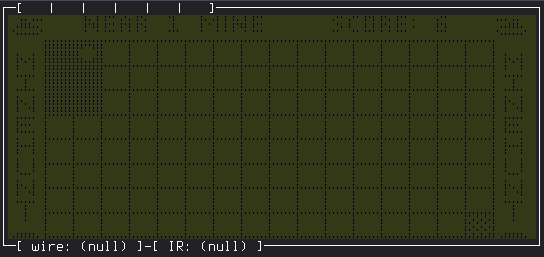
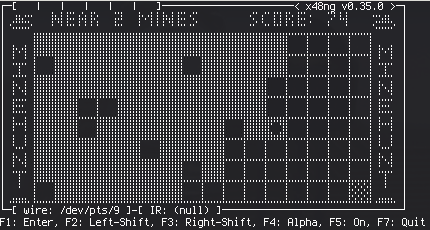
updated --tui-tiny screenshot with a --mono one for readability

diff --git a/README.md b/README.md
@@ -12,13 +12,13 @@ You can use the script `setup-x48ng-home.sh` or simply run `x48ng --rom=<romfile
 
 ## Screenshots
 
-### `--tui-small` version (ncurses)
+### `--tui-small` version (ncurses, 4 pixels per character)
 
 ![screenshot of x48ng --tui-small running in a terminal](./tui-small-screenshot.png?raw=true "screenshot of x48ng --tui-small running in a terminal")
 
-### `--tui-tiny` version (ncurses)
+### `--tui-tiny --mono` version (ncurses, 8 pixels per character)
 
-![screenshot of x48ng --tui-tiny running in a terminal](./tui-tiny-screenshot.png?raw=true "screenshot of x48ng --tui-tiny running in a terminal")
+![screenshot of x48ng --tui-tiny --mono running in a terminal](./tui-tiny-screenshot.png?raw=true "screenshot of x48ng --tui-tiny --mono running in a terminal")
 
 ### `--tui` version (ncurses)
 
@@ -42,15 +42,13 @@ You can use the script `setup-x48ng-home.sh` or simply run `x48ng --rom=<romfile
 ### Ncurses UI (`--tui`)
 
 I had to be a bit 'creative' mapping keys there:
+- `Enter`: `F1`
+- `Left Shift`: `F2` or `PgUp` or `[`
+- `Right Shift`: `F3` or `PgDn` or `]`
+- `Alpha`: `F4` or `Ins` or `;`
+- `On`: `F5` or `Esc` or `Home` or `\`
 
-- _Enter_ is either `Return` or `Ctrl-J` or `F1`
-- _Left Shift_ is either `PgUp` or `[` or `F2`
-- _Right Shift_ is either `PgDn` or `]` or `F3`
-- _Alpha_ is either `Ins` or `;` or `F4`
-- _On_ is either `Esc` or `Home` or `\` or `F5`
-- finally `|` or `Shift+End` or `F10` or `F7` **quits** x48ng
-
-The keybindings of the `Fx` have been standardized across all 3 UIs (x11, sdl and tui)
+_To quit `x48ng` use `F7`
 
 ## What have I done:
 
